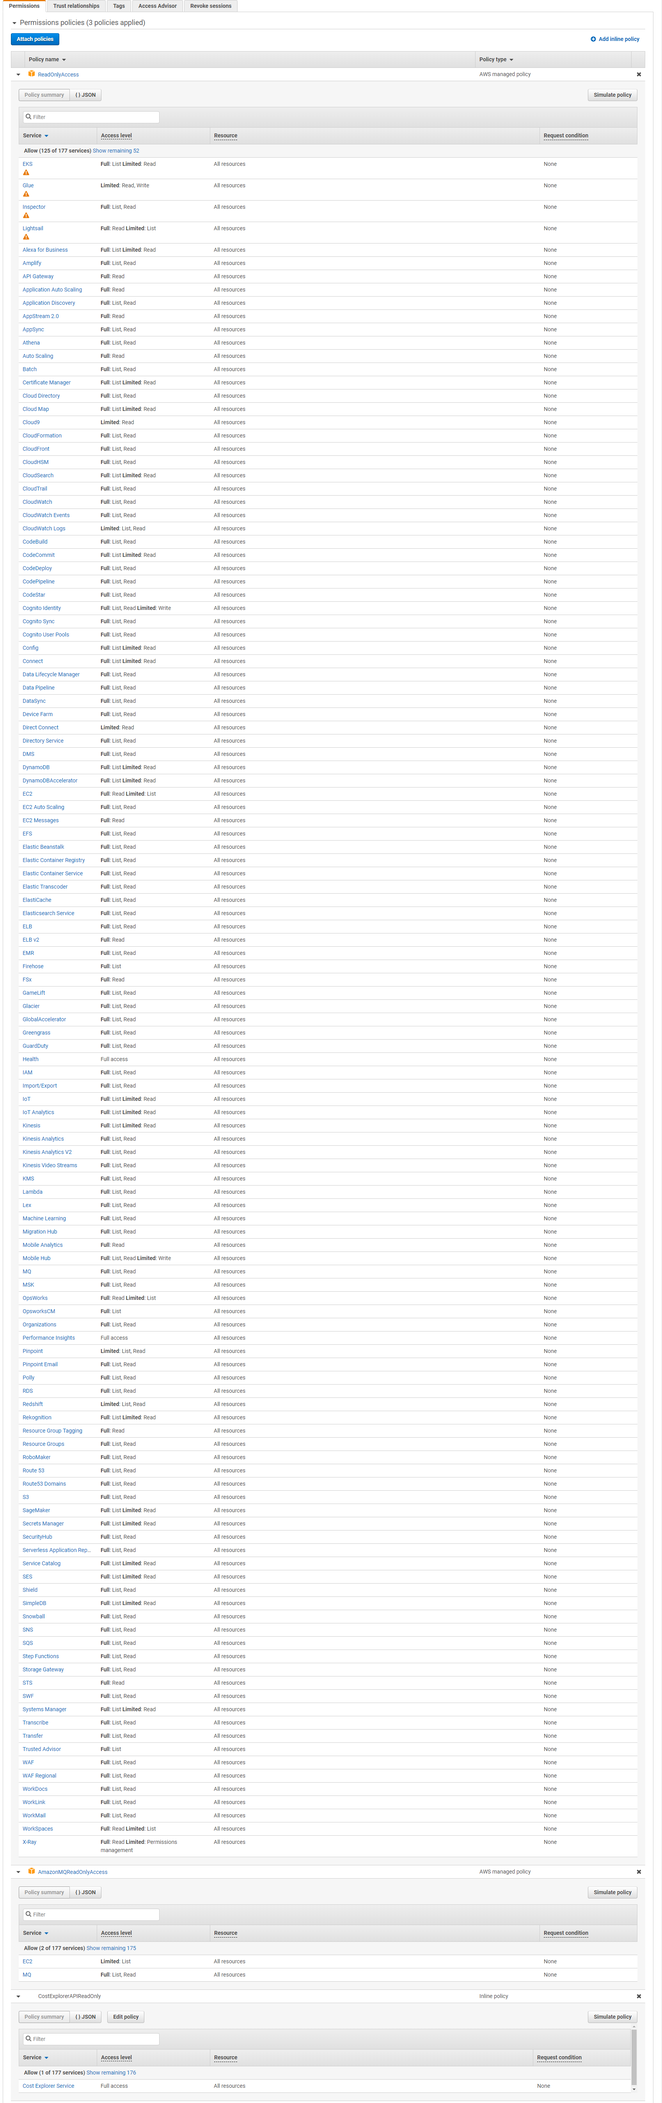
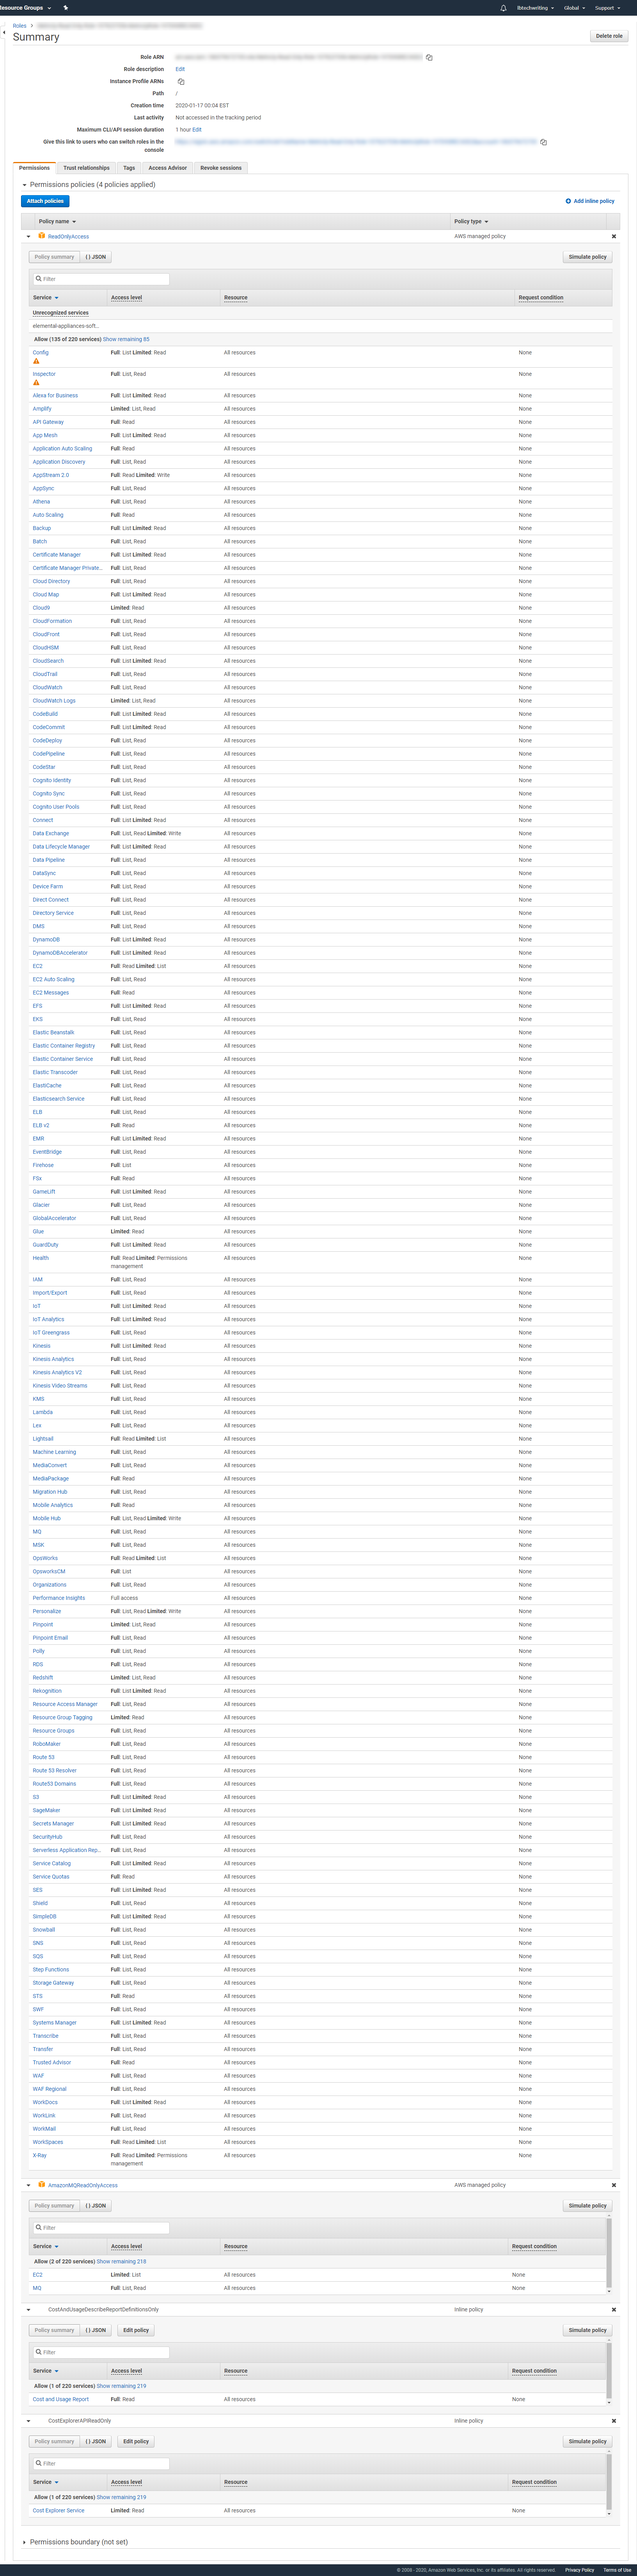
updated cloudformation page and manual IAM page

Changed region(s): [[0.0, 0.0, 1.0, 1.0]]

diff --git a/content/integrations/AWS-Integration/AWS-CloudFormation-Installation.md b/content/integrations/AWS-Integration/AWS-CloudFormation-Installation.md
@@ -12,31 +12,22 @@ This installation method leverages a CloudFormation script which can be viewed [
 
 After you make a new AWS integration in CloudWisdom, the script populates a read-only IAM role in your AWS account and links it using the integration’s Account ID and External ID. Once created, it may take a few minutes for the status to be updated.
 
-## Create an AWS Integration in CloudWisdom
-1. Open CloudWisdom and navigate to Integrations > AWS.  
-2. Create a new AWS integration. Ensure that the below tabled properties are set according to your needs.
+## 1. Create an AWS Integration in CloudWisdom
+1. Open CloudWisdom and navigate to **Integrations** > **Amazon Web Services**.  
+2. Select **+ Add Integration**.
+3. Enable the **Cost Explorer API**.
+4. Select the following Detailed Billing Source: **Cost And Usage Report (Recommended)**.
+![cost-explorer-CUR](/images/AWS-CloudFormation-Installation/cost-explorer-cur.png)
+5. Select the **CloudFormation script** link under Configure AWS Permissions. This opens a new tab in AWS.  
+6. Check **I acknowledge that AWS CloudFormation might create IAM resources**.  
+7. Select **Create Stack**. This process may take a few minutes. Wait for the stack to say **CREATE_COMPLETE** before proceeding to the next section.
 
-| AWS Toggle   | Description |
-|--------------|---------------------------------------------------------------|
-| CostExplorer | Captures billing data. This should only be enabled on 1 AWS account, the master billing data account. |
-| CloudWatch   | Enable the CloudWatch toggle to monitor performance data. This can be done on multiple accounts. |  
-![Enable CloudWatch](/images/AWS-CloudFormation-Installation/enable-cloudwatch.png)
-3. For AWS Authentication, select **IAM Role**.  
-![IAM Role](/images/AWS-CloudFormation-Installation/iam-role.png)
-4. Click the **CloudFormation script** link under Configure AWS Permissions. This opens a new tab in AWS.  
-5. Check **I acknowledge that AWS CloudFormation might create IAM resources**.  
-6. Click **Create Role**.  
-![I acknowledge](/images/AWS-CloudFormation-Installation/i-acknowledge.png)
-7. It may take a few minutes to create the role. When ready, the status turns green.
-![Read Only Status Complete](/images/AWS-CloudFormation-Installation/read-only-status-complete.png)
-
-## Add Role ARN to the New AWS Integration
-1. In the AWS console, navigate to **Services** > **IAM** > **Roles**.  
-2. Find the role created in the previous section using the search bar.  
-![Create Role](/images/AWS-CloudFormation-Installation/create-role.png)
-3. Expand **Outputs** and copy the **Role ARN**.  
- - Do **not** copy the _Stack ID_. The Role ARN looks like: `arn:aws:iam::<account-number>:role/Metricly-Role-Name>`
-4. Return to the CloudWisdom.   
+## 2.  Add RoleARN to the New AWS Integration
+1. Select the stack you have created. It will start with `Metricly-Read-Only-Role-`.
+2. Navigate to the **Outputs** tab.
+3. Copy the **Role ARN Value**.
+![role-arn-value](/images/onboarding-wizard/role-arn-value.png)
+4. Return to CloudWisdom.   
 5. Input the Role ARN into **IAM Role ARN**.  
-![IAM Role ARN](/images/AWS-CloudFormation-Installation/iam-role-arn.png)
-6. Click **Save**.  
+![iam-role-arn](/images/AWS-CloudFormation-Installation/iam-role-arn.png)
+6. **Save**.  

diff --git a/content/integrations/AWS-Integration/AWS-IAM-Installation.md b/content/integrations/AWS-Integration/AWS-IAM-Installation.md
@@ -43,7 +43,7 @@ If you already have an existing IAM role for CloudWisdom but it does not include
 3. Select **Policies**.
 4. Select **Create Policy**.
 5. Switch to the **JSON** tab.
-6. Copy and paste the following code into the Policy Document section.
+6. Copy and paste the following code into the Policy Document section:
 ```
 {
 "Version": "2012-10-17",
@@ -57,10 +57,34 @@ If you already have an existing IAM role for CloudWisdom but it does not include
 }
 ```
 7. Select **Review Policy**.
-8. Provide a **Name**, such as `CostExplorerAPIReadOnly`. You must add this customer managed policy to your IAM role in **Part 3**.
+8. Provide a **Name**, such as `CostExplorerAPIReadOnly`. You must add this customer managed policy to your IAM role in **Part 4**.
 9. Review the permissions summary and select **Create Policy**.
 
-### 3: Create Read Only Role (with standard permissions)
+### 3: Create a Custom In-line Policy for Cost and Usage Report Read Access
+
+1. Return to **IAM** > **Policies**.
+2. Select **Create Policy**.
+3. Switch to the **JSON** tab.
+4. Copy and paste the following code into the Policy Document section:
+```
+{
+    "Version": "2012-10-17",
+    "Statement": [
+        {
+            "Sid": "VisualEditor0",
+            "Effect": "Allow",
+            "Action": "cur:DescribeReportDefinitions",
+            "Resource": "*"
+        }
+    ]
+}
+```
+5. Select **Review Policy**.
+6. Provide a **Name**, such as `ReadCostAndUsageReportDefinitions`. You must add this customer managed policy to your IAM role in **Part 4**.
+7. Review the permissions summary and select **Create Policy**.
+
+
+### 4: Create Read Only Role (with standard permissions)
 
 1. Log in to your **AWS Console**.
 2. In **Find Services**, search for `IAM` and select the result.
@@ -73,6 +97,7 @@ If you already have an existing IAM role for CloudWisdom but it does not include
 7. Select **Next: Permissions**.
 8. For Attach permission policies, add all of the following:
  - CostExplorerAPIReadOnly (**Filter policies** > **Customer Managed**)
+ - ReadCostAndUsageReportDefinitions (**Filter policies** > **Customer Managed**)
  - AmazonMQReadOnlyAccess
  - ReadOnlyAccess
  ![customer-managed](/images/AWS-IAM-Installation/customer-managed.png)
@@ -148,7 +173,7 @@ If you want to use a limited read only access policy, you’ll need to create a 
 9. Review the permissions summary and select **Create Policy**.
 10. Follow **Part 3** of this guide, replacing **step 8** with your custom minimal permissions policy.
 
-### 4: Update AWS Integration in CloudWisdom with the Role ARN
+### 5: Update AWS Integration in CloudWisdom with the Role ARN
 
 1. Return to the open CloudWisdom tab from **Step 1**.
 2. Add the Role ARN from the IAM role found in your AWS Console.
